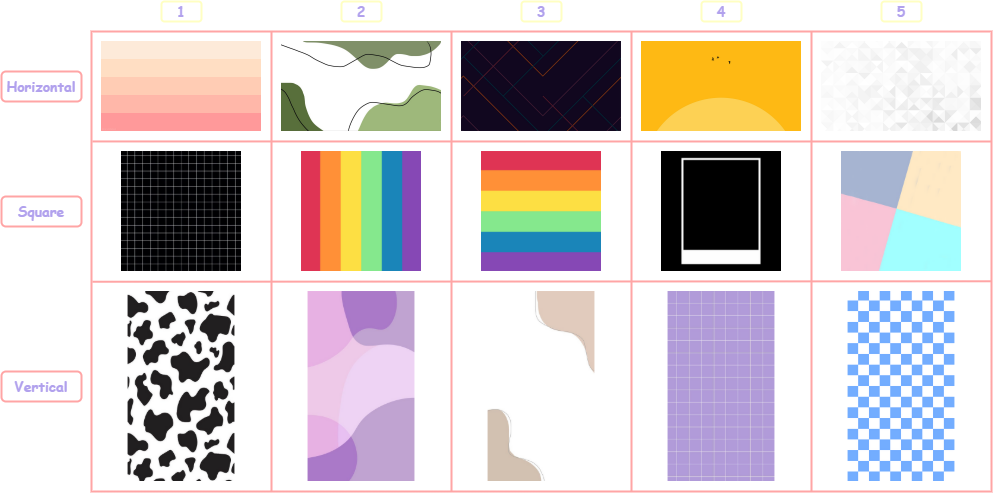
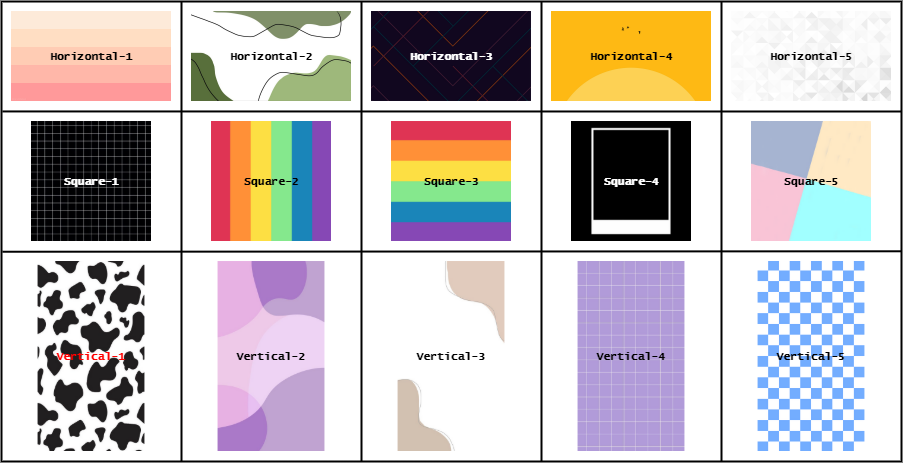
update backgroundchanger

diff --git a/main.py b/main.py
@@ -1,26 +1,34 @@
+import pywebio
 from pywebio.input import *
 from pywebio.output import *
-import numpy as np
+from pywebio import start_server
+from pywebio.exceptions import SessionClosedException
+import sys
+import asyncio
 import cv2
-import math
+from PIL import Image
+from PIL import ImageFile
+import io
+from io import BytesIO
 import os
+import math
+import numpy as np
+from numpy import linalg as LA
 import matplotlib
 matplotlib.use('TkAgg')
 from matplotlib import pyplot as plt
 import time
 import json
-from pywebio.input import *
-from pywebio.output import *
-from pywebio import start_server
-from imgaug import augmenters as iaa
+import skimage
 from skimage.segmentation import felzenszwalb, slic, quickshift, watershed
 from skimage.segmentation import mark_boundaries
-import pywebio
-import sys
-import asyncio
+from rembg.bg import remove
+from sklearn.cluster import KMeans
+from imgaug import augmenters as iaa
 import warnings
 warnings.filterwarnings("ignore")
 
+ImageFile.LOAD_TRUNCATED_IMAGES = True
 if sys.platform == 'win32':
     asyncio.set_event_loop_policy(asyncio.WindowsSelectorEventLoopPolicy())
 
@@ -39,9 +47,10 @@ def start():
         #step 2: image filter 
         filter_image(img,lj_map)
         #step 3: background remove 
-        #img_background(img)
-        # can choose no remove background 
+        img_background(img)
+        #step 4: style tranformation
         main_function(img)
+        #step5: pixelization
         #pixelate(img)
         endpage()
 
@@ -64,7 +73,7 @@ def progress_bar():
         time.sleep(0.1)
         
 def main_function(img):
-    main_function = radio("Choose a main features",options = ['Cartoonization','Oil Paint','Pencil Sketch','Watercolour'])
+    main_function = radio("Choose a main features",options = ['Cartoonization','Oil Paint','Pencil Sketch','Watercolour'], required=True)
     # give user stack filter once more
     if main_function == "Cartoonization":
         cartoonization(img)
@@ -74,12 +83,12 @@ def main_function(img):
         sketch(img)
     elif main_function == "Watercolour":
         watercolor(img)
-        
+# ---------------------------------ENHANCEMENT--------------------------------        
 # ---------------------------------FILTERING--------------------------------
 def filter_image(img,lj_map):
     filter_preview = open(path+'/filter-preview.png', 'rb').read()  
     popup('Filter Preview', [put_image(filter_preview,width='400px'),put_buttons(['close_popup()'], onclick=lambda _: close_popup())])
-    operation = radio("Image Filter",options = ['Filter sepia','Filter lighting','Filter clarendon','No filter'])
+    operation = radio("Image Filter",options = ['Filter sepia','Filter lighting','Filter clarendon','No filter'], required=True)
     if operation == "Filter sepia":
         filter_sepia(img)
     elif operation == "Filter lighting":
@@ -185,11 +194,110 @@ def filter_clarendon(img,lj_map):
         put_file(label="Download",name='filter_'+ img['filename'], content=img['content'])
         put_button("Retry", onclick=start, color='primary', outline=True)
 
+# ---------------------------------BACKGROUND--------------------------------
+def img_background(img):
+    backgroundsolid_preview = open(path+'/background-preview-solid.png', 'rb').read()  
+    popup('Filter Preview', [put_image(backgroundsolid_preview,width='800px'),put_buttons(['close_popup()'], onclick=lambda _: close_popup())])
+    backgroundpattern_preview = open(path+'/background-preview-pattern.png', 'rb').read()  
+    popup('Filter Preview', [put_image(backgroundpattern_preview,width='800px'),put_buttons(['close_popup()'], onclick=lambda _: close_popup())])
+    background_choice = radio("Choose",options = ['Transparent Background','Solid Color Background',
+                                                    'Customize & Patterned Background', 'No Change'], required=True)
+    if background_choice == "Transparent Background" :
+        bg_remover(img)
+    elif background_choice == "Solid Color Background":
+        bg_solid(img)
+    elif background_choice == "Customize & Patterned Background":
+        bg_cuspat(img)
+    elif background_choice == "No Change":
+        return img
+
+def bg_remover(img):
+    with use_scope("scope_bg_remover", clear=True):
+        progress_bar()
+        image = img['content']
+        result = remove(image)
+        img_transpB = Image.open(io.BytesIO(result)).convert("RGBA")
+        img_transpB.save('img_transpB.png', format='PNG')
+        result = open('img_transpB.png','rb').read()
+        put_markdown('## **Background Removing Result:**')
+        put_row([put_text("Before: "), None, put_text("After: ")])
+        put_row([put_image(img['content']), None, put_image(result)])
+        img['content'] = result
+        put_file(label="Download",name='filter_'+ img['filename'], content=result)
+        os.remove("img_transpB.png")
+        put_button("Retry", onclick=start, color='primary', outline=True)
+
+def bg_solid(img):
+    with use_scope("scope_bg_solid", clear=True):
+        html_colors = ['Aqua','Beige','Black','Brown','Coral',
+                    'Dark grey','Fuchsia','Green','HotPink','Indigo',
+                    'LightBlue','Lime','Medium Blue','Orange','Pink',
+                    'Rebecca Purple','Red','Teal','White','Yellow']    
+        progress_bar()
+        image = img['content']
+        result = remove(image)
+        img_transpB = Image.open(io.BytesIO(result)).convert("RGBA")
+        img_transpB.save('img_transpB.png', format='PNG')
+        foreground = Image.open('img_transpB.png').convert("RGBA")
+        color_choice = input_group("Background Colour Picker",[select("Choose a background colour: ", name='colour', options=html_colors, required=True)])
+        img_solidB = Image.new("RGBA", img_transpB.size, color_choice['colour']) 
+        img_solidB.paste(foreground, mask=foreground)
+        img_solidB.convert("RGB")
+        img_solidB.save('img_solidB.png', format='PNG')
+        result = open('img_solidB.png','rb').read()
+        put_markdown('## **Background Removing Result:**')
+        put_row([put_text("Before: "), None, put_text("After: ")])
+        put_row([put_image(img['content']), None, put_image(result)])
+        img['content'] = result
+        put_file(label="Download",name='filter_'+ img['filename'], content=result)
+        os.remove("img_transpB.png")
+        os.remove("img_solidB.png")
+        put_button("Retry", onclick=start, color='primary', outline=True)
+
+def bg_cuspat(img):
+    with use_scope("scope_bg_cuspat", clear=True):
+        background_list = ['Customize','Horizontal-1','Horizontal-2','Horizontal-3','Horizontal-4','Horizontal-5',
+                            'Square-1','Square-2','Square-3','Square-4','Square-5',
+                            'Vertical-1','Vertical-2','Vertical-3','Vertical-4','Vertical-5']
+        progress_bar()
+        image = img['content']
+        result = remove(image)
+        img_transpB = Image.open(io.BytesIO(result)).convert("RGBA")
+        img_transpB.save('img_transpB.png', format='PNG')
+        foreground = Image.open('img_transpB.png').convert("RGBA")
+        cuspat_choice = input_group("Background Changer",[select("Choose/Customize a background pattern: ", name='xuanze', options=background_list, required=True)])
+        bg_path = path + '/background'
+        if cuspat_choice['xuanze'] != 'Customize':
+            for image_name in os.listdir(bg_path):
+                input_path = os.path.join(bg_path, image_name)
+                if image_name == cuspat_choice['xuanze']+".png":
+                    background = Image.open(input_path).convert("RGBA")
+        else:
+            bgimg = file_upload("Select your background image:", accept="image/*")         
+            background = bgimg['content']
+            background = Image.open(io.BytesIO(background)).convert("RGBA")
+            #background = background.convert("RGBA")
+        
+        width = (background.width - foreground.width) // 2
+        height = (background.height - foreground.height) // 2
+        background.paste(foreground, (width, height), foreground)
+        background.convert("RGB")
+        background.save('img_cuspatB.png', format='PNG')
+        result = open('img_cuspatB.png','rb').read()
+        put_markdown('## **Background Removing Result:**')
+        put_row([put_text("Before: "), None, put_text("After: ")])
+        put_row([put_image(img['content']), None, put_image(result)])
+        img['content'] = result
+        put_file(label="Download",name='filter_'+ img['filename'], content=result)
+        os.remove("img_transpB.png")
+        os.remove("img_cuspatB.png")
+        put_button("Retry", onclick=start, color='primary', outline=True)
+
 # ---------------------------------CARTOON--------------------------------
 def cartoonization(img):
     cartoon_preview = open(path+'/cartoon-preview.png', 'rb').read()  
     popup('Cartoonization Preview', [put_image(cartoon_preview,width='400px'),put_buttons(['close_popup()'], onclick=lambda _: close_popup())])
-    cartoon_choice = radio("Cartoonization",options = ['Comics','Twilight','Classic'])
+    cartoon_choice = radio("Cartoonization",options = ['Comics','Twilight','Classic'], required=True)
     if cartoon_choice == "Comics" :
         cartoon_comics(img)
     elif cartoon_choice == "Twilight":
